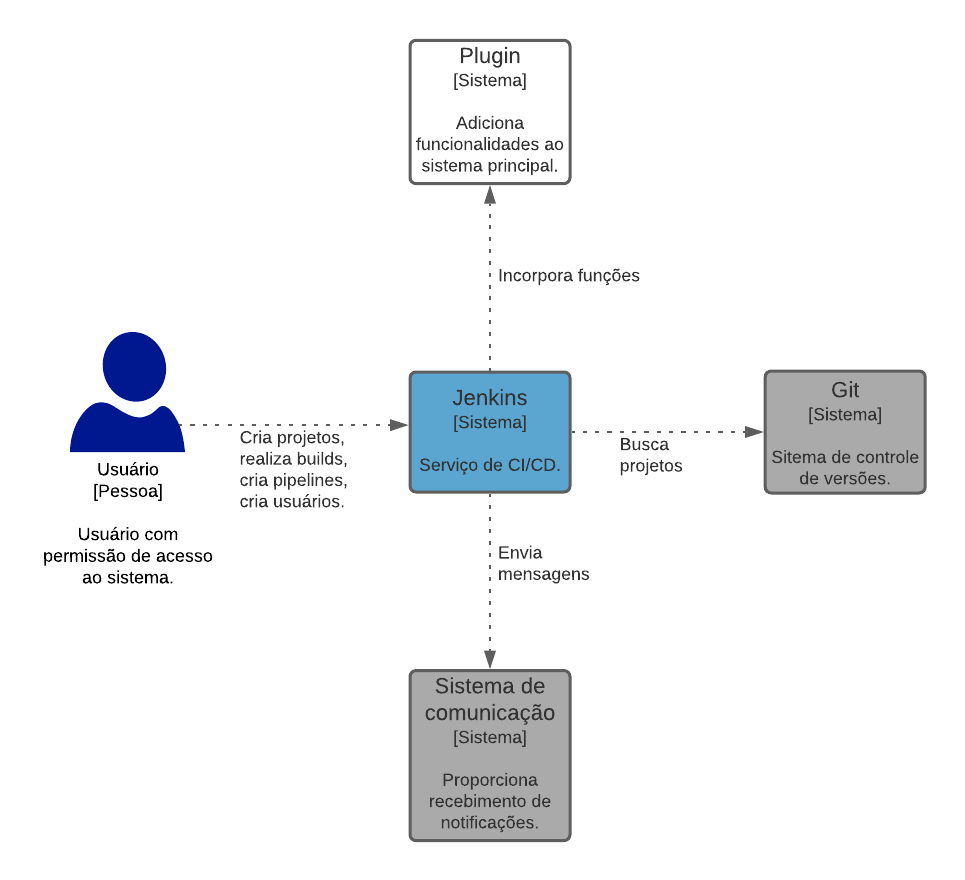
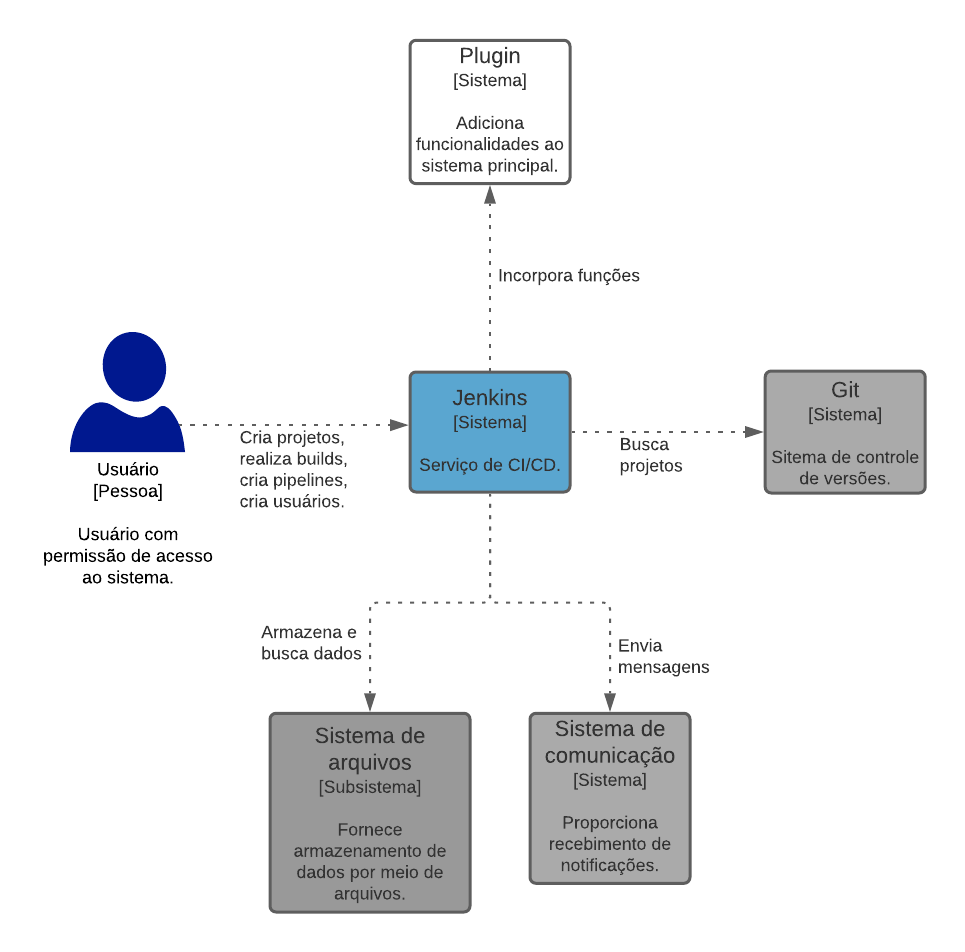
Adicionar informações de container

diff --git a/content/posts/jenkins.md b/content/posts/jenkins.md
@@ -32,18 +32,21 @@ Os principais sistemas que o Jenkins se comunica são seus plugins, que quando i
 
 ### Containers
 
-Nesta seção eu espero duas coisas: o diagrama de containers e  texto descrevendo os containers. Detalhe no nível que achar necessário, mas é importante saber do que se trata cada container, suas tecnologias, APIs expostas, protocolos, onde são executados/implantados etc. Você pode criar um diagrama de implantação para dar mais detalhes sobre o ambiente em que os containers são implantados e executam. Essa parte de implantação pode ser uma subseção desta seção.
+O sistema é composto basicamente por dois containers: a interface web e a aplicação (API). O primeiro, possibilita interação com o usuário, é feito usando Jelly e renderizado do lado do servidor. Já o segundo, gerencia toda a parte de projetos, de dados e comunicação externa.
 
-Importante, se um componente expor, por exemplo, uma API REST. Seria importante descrever os principais serviços. Talvez até com exemplos de payloads (jsons) para os serviços mais importantes. Ver seção endpoints [deste documento](https://docs.google.com/document/d/1OGPN7crENY5u9AiR_AE7Cb9rT92T-U-YppZL0m4TT2s/edit?usp=sharing).
+![fig2](containers.png)
 
-Importante, se um container expuser, por exemplo, uma API REST, seria importante descrever os principais serviços. Talvez até com exemplos de payloads (jsons) para os serviços mais importantes. Ver seção endpoints [deste documento](https://docs.google.com/document/d/1OGPN7crENY5u9AiR_AE7Cb9rT92T-U-YppZL0m4TT2s/edit?usp=sharing).
+Abaixo estão alguns exemplos de como são processados os paths:
+- Get: /log/… &rarr; Jenkins#getLog()
+    * Busca o arquivo log do sistema.
+- Get com argumentos: /job/foo/… &rarr; Hudson#getJob(“foo”)
+    * Busca um job chamado foo.
+- Get dinâmico: /job/foo/1/… &rarr; Job#getDynamic(“1” ...)
+    * Busca o build 1 do job foo.
+- Método de ação: /job/foo/1/artifact &rarr; Run#doArtifact(...)
+    * Executa o método doArtifact no build 1 do job foo.
 
-Abaixo estão exemplos de diagramas de containers e de implantação.
-
-![fig3](c4-containers.png)
-![fig4](parlametria-container.png)
-![fig5](c4-implantacao.png)
-![fig6](parlametria-implantacao.png)
+Quanto à implantação, o Jenkins pode ser instalado em qualquer máquina. Ele possui compatibilidade com os principais sistemas operacionais, Linux, MacOS e Windows, além de poder ser instalado usando o Docker ou na nuvem.
 
 ### Componentes
 
@@ -52,13 +55,6 @@ Nesta seção eu espero duas coisas: o diagrama de componentes e texto descreven
 Abaixo um exemplo de diagrama de componente.
 
 ![fig7](c4-componentes.png)
-
-### Código
-
-<pre>
-Nesta etapa não faremos diagramas que apresentam detalhes da
-implementação. Faremos isso mais adiante.
-</pre>
 
 ### Visão de Informação
 
